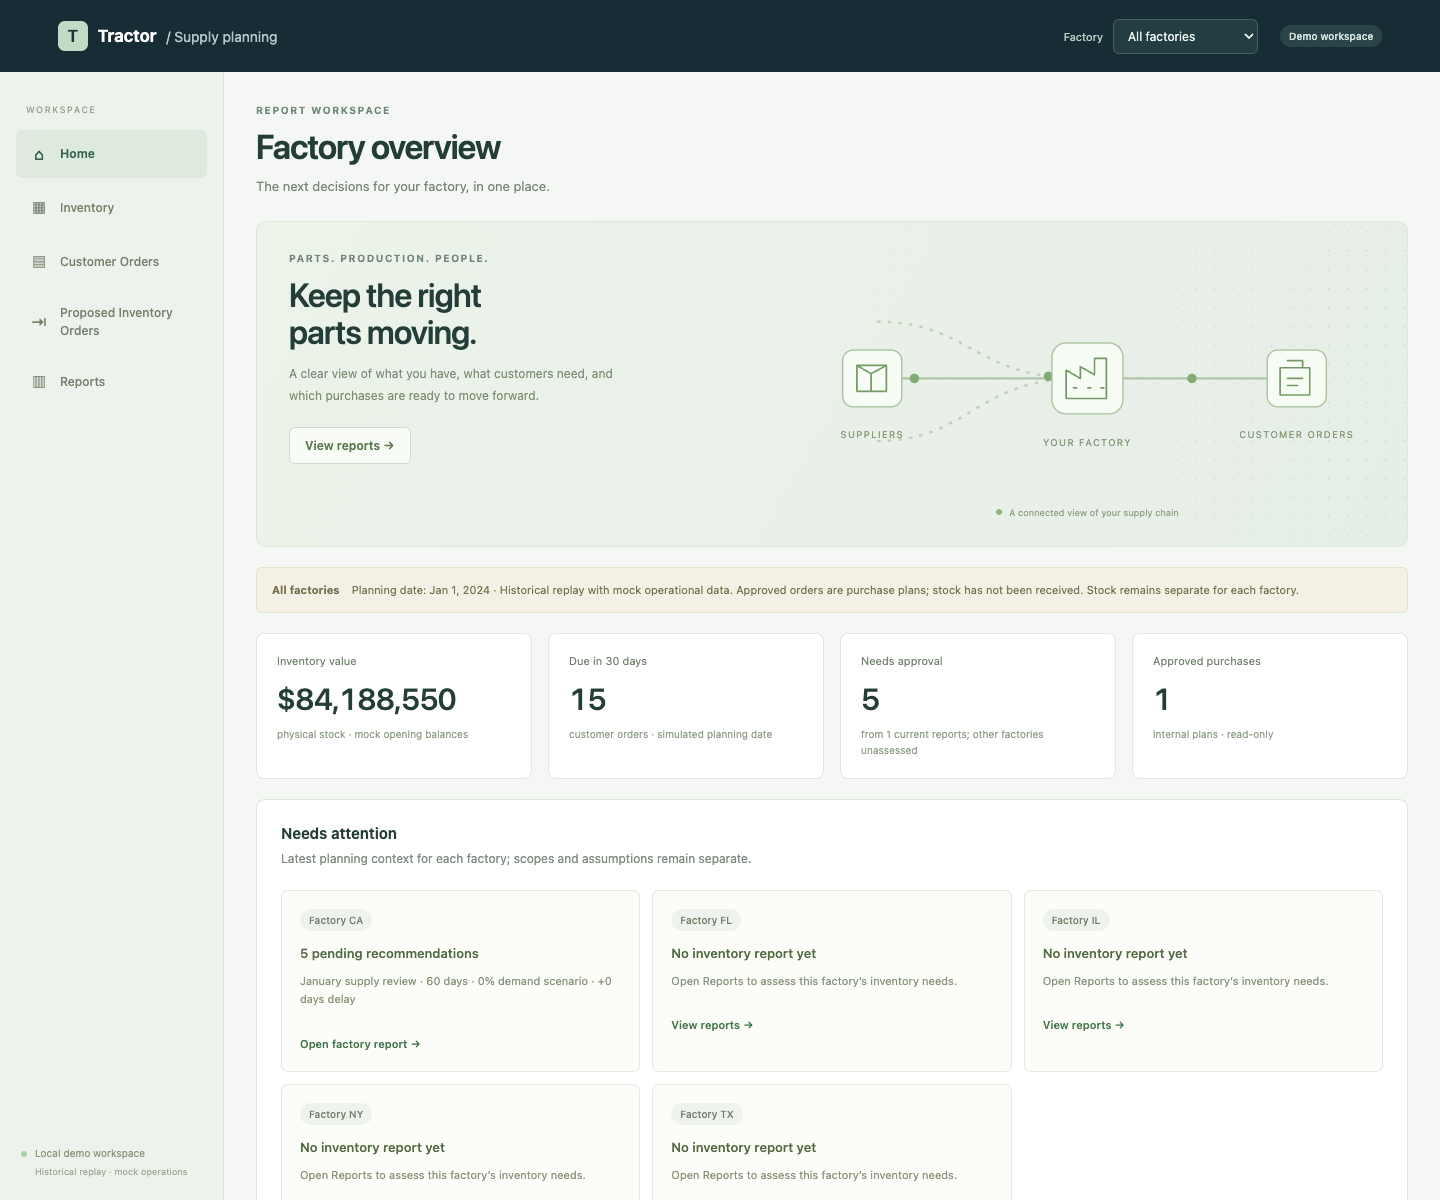
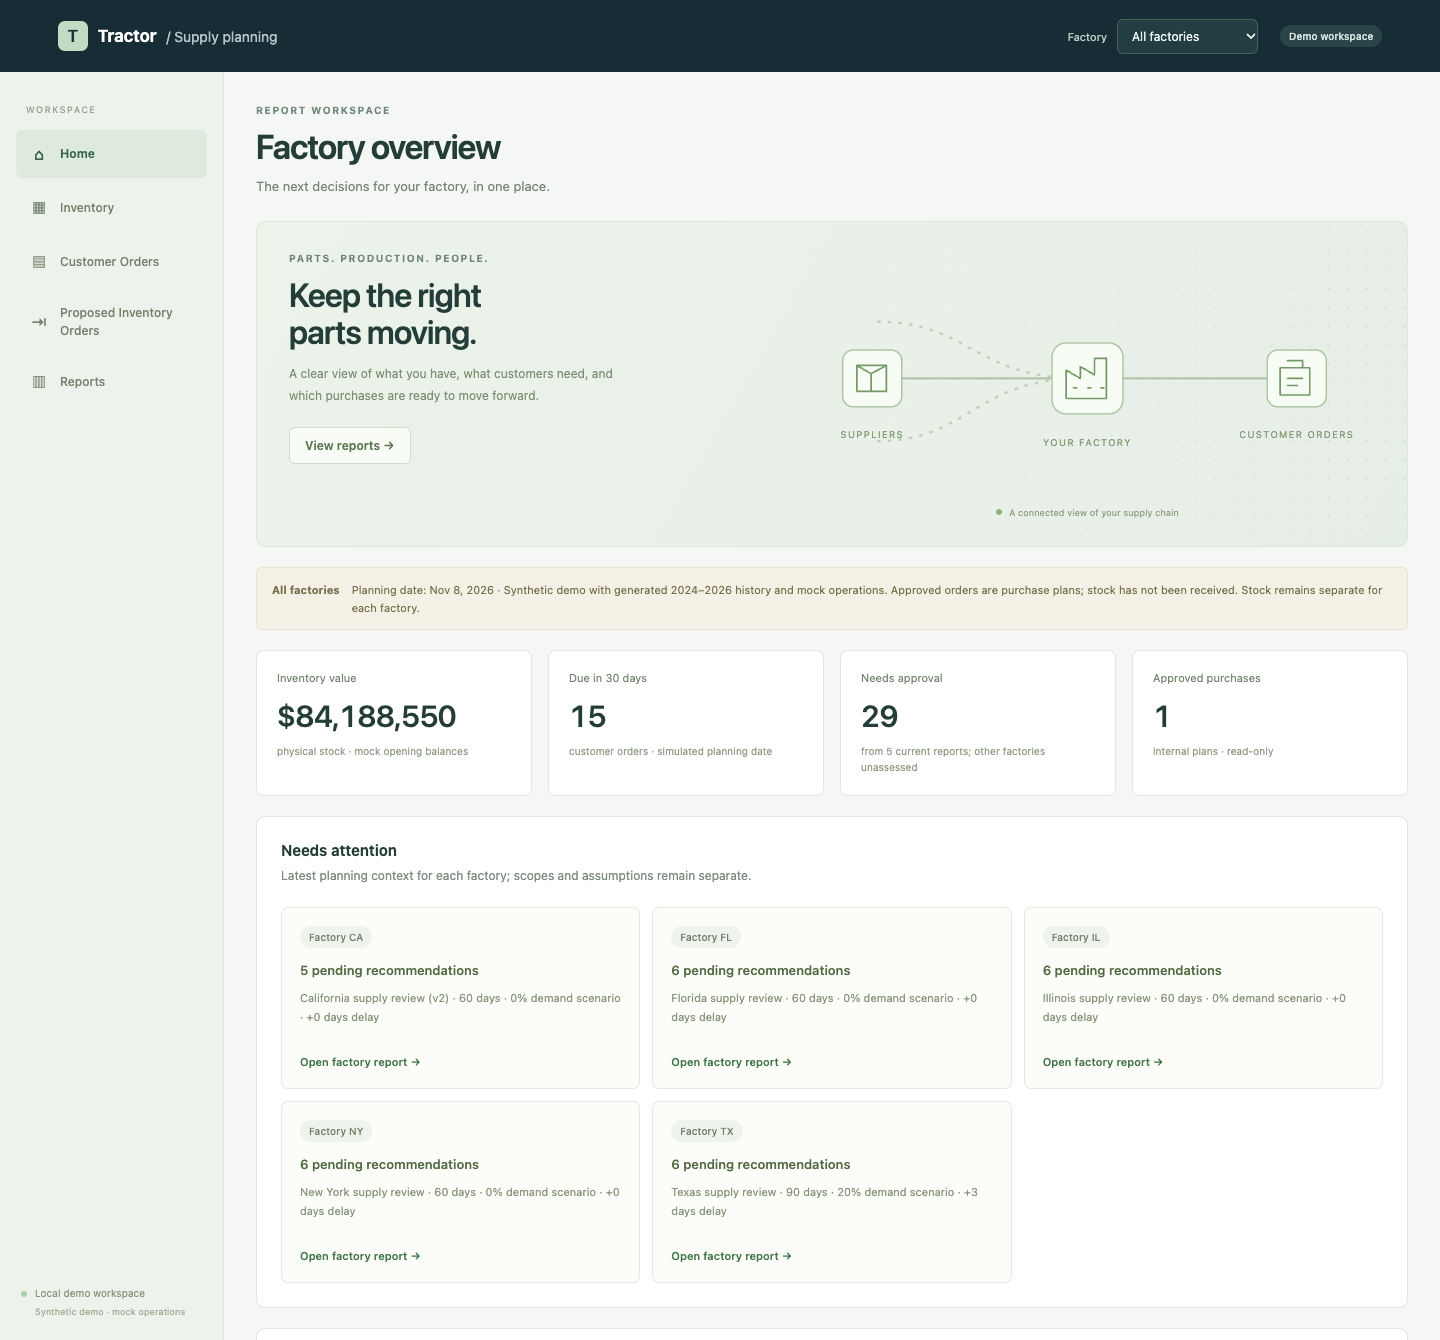
Refresh architecture docs and current app screenshots

diff --git a/docs/implementation.md b/docs/implementation.md
@@ -2,11 +2,67 @@
 
 For startup and a tour of the app, see the [README](../README.md).
 
+## Services and data flow
+
+The service has a React/TypeScript frontend, a FastAPI backend, and a PostgreSQL database. The Docker build compiles the frontend; FastAPI serves that bundle and `/api` routes together on port 8000. In development, Vite proxies `/api` requests to that backend.
+
+| Compose service | Responsibility | Access and persistence |
+| --- | --- | --- |
+| `app` | FastAPI API, calculations, saved-report actions, and built React UI | Host `127.0.0.1:8000` by default; `APP_PORT` changes the host port |
+| `db` | PostgreSQL 17.6 source data and operational state | Internal port 5432; `postgres_data` volume |
+| `llm` | Ollama 0.40.15 serving the optional `qwen3:1.7b` model | Internal port 11434; `ollama_models` volume; model downloaded separately |
+
+```mermaid
+flowchart LR
+    Browser[React UI] --> API[FastAPI]
+    Source[CSV history and planning fixtures] --> API
+    API --> DB[PostgreSQL]
+    API -- Generate summary --> LLM[Local Ollama model]
+```
+
+The app can start and calculate reports while the model is unavailable. Summary generation is an explicit action on a saved report. The model receives bounded facts from that snapshot; calculations and approval transactions remain backend operations.
+
+## Database storage
+
+Startup imports source observations by checksum and applies additive schema changes. Operational state is partitioned by factory. Existing reports, orders, and stock are preserved across restarts and imports.
+
+| Table | Primary key | Stored data |
+| --- | --- | --- |
+| `dataset_imports` | `checksum` | Import filename, observation count, and import timestamp |
+| `observations` | `(dataset_checksum, source_row)` | Validated source observations, including the synthetic extension |
+| `factory_state` | `site` | Revision counter used for approval locking and stale-report checks |
+| `factory_inventory` | `(site, component_id)` | Physical on-hand and reserved component balances |
+| `report_runs` | `id` | Name, factory, configuration, calculation snapshot, source checksum, inventory revision, deletion timestamp, and demo lock |
+| `planning_purchase_orders` | `id` | Approved internal purchase plans linked to their originating report; unique per report/component |
+| `recommendation_decisions` | `(report_id, component_id)` | Approved/denied decisions, decision timestamp, and optional purchase-order ID |
+| `report_summaries` | `report_id` | One saved explanation per snapshot, with model, prompt version, input checksum, content, and timestamp |
+| `planning_state` | `id` | Legacy CA-only revision table, retained for migration compatibility |
+| `planning_inventory` | `component_id` | Legacy CA-only balances, retained for migration compatibility |
+
+The current app reads and updates the factory-specific tables for operational planning. Component definitions, BOMs, supplier settings, and mock customer orders come from `planning.json`, rather than separate database tables. Historical CSV inventory levels are source observations and do not become physical component stock.
+
+`report_runs.config` and `report_runs.result` are JSONB. Version metadata is stored in `result`, for example:
+
+```json
+{
+  "version": 3,
+  "version_root_id": "original-report-id",
+  "version_base_name": "California supply review",
+  "recalculated_from": "previous-snapshot-id"
+}
+```
+
+Version links are application-managed JSON references. `is_stale` and summary `is_outdated` are computed when reports are loaded, not stored boolean columns. See [Saved reports and decisions](#saved-reports-and-decisions) for lifecycle behavior.
+
 ## Calculations and assumptions
 
 ### Source data
 
 The supplied synthetic CSV has 10,000 observations from 2020–2023 and is preserved unchanged. The separate `data/supply_chain_mock_2024_2026.csv` adds 6,977 mock observations from January 1, 2024 through November 7, 2026. Warehouse codes are treated as factory IDs. Reports use only the selected factory's observations before the fixed demo planning date of November 8, 2026. The date does not move on reload.
+
+Row meaning is undocumented. The app assumes demand rows are additive. Historical inventory values are retained as source observations, not summed into current component stock.
+
+Missing weeks are unknown, not zero. Zero would be appropriate only if the source were a complete transaction log where no row means no demand. Partial boundary weeks are excluded. Missing values should be repaired or excluded once source semantics are known, rather than interpolated without evidence.
 
 ### Generating the extension
 
@@ -24,10 +80,6 @@ Only dates are replaced, preserving the sampled combinations of factory, model, 
 
 Startup validates and imports the original and extension together under one checksum, retaining separate files and original source values. A new checksum imports new history without deleting saved reports, stock, decisions, or approved orders. `MOCK_DATA_PATH` selects the extension; an empty value disables it. After changing generated files, rebuild the app with `docker compose up --build -d`. Changing the planning date also requires updating `planning.json` and its fixture version; saved reports and approved-order dates remain frozen.
 
-Row meaning is undocumented. The app assumes demand rows are additive. Historical inventory values are retained as source observations, not summed into current component stock.
-
-Missing weeks are unknown, not zero. Zero would be appropriate only if the source were a complete transaction log where no row means no demand. Partial boundary weeks are excluded. Missing values should be repaired or excluded once source semantics are known, rather than interpolated without evidence.
-
 ### Forecasts and risks
 
 Demand uses the mean of the last eight complete observed weeks. The report scales this baseline to the selected horizon and demand scenario. Confirmed customer orders replace the daily forecast when larger, rather than being added to it.
@@ -44,11 +96,13 @@ There is no trained forecasting ML model. Optional report explanations use a pre
 
 ### Local report explanations
 
-Ollama runs as the `llm` Compose service with a persistent `ollama_models` volume. It has no host port. The app calls its native `/api/chat` endpoint over the Compose network. Defaults are `LLM_BASE_URL=http://llm:11434`, `LLM_MODEL=qwen3:1.7b`, and `LLM_TIMEOUT_SECONDS=120`. Model downloads require network access; inference uses the local model and sends no report data to a hosted model API. Download the model with `docker compose exec llm ollama pull qwen3:1.7b`. Other models can be selected through `.env` and downloaded separately. An empty `LLM_BASE_URL` disables generation.
+Ollama runs as the `llm` Compose service with a persistent `ollama_models` volume. It has no host port. The app calls its native `/api/chat` endpoint over the Compose network. Defaults are `LLM_BASE_URL=http://llm:11434`, `LLM_MODEL=qwen3:1.7b`, and `LLM_TIMEOUT_SECONDS=120` per inference attempt. Model downloads require network access; the default inference path uses the local model and sends no report data to a hosted model API. Download the model with `docker compose exec llm ollama pull qwen3:1.7b`. Other models can be selected through `.env` and downloaded separately. An empty `LLM_BASE_URL` disables generation.
 
-Docker Model Runner was evaluated first. The installed v0.1.11 runner rejected the current 1.7B package format and timed out loading the compatible older 0.6B package. The app therefore uses the separate Ollama service. This runs on CPU under Docker Desktop on macOS; first inference includes model loading. A future native runtime could improve speed.
+Ollama uses CPU inference under Docker Desktop on macOS. Model loading and the number of selected analyses affect latency; cached summaries load without inference. A native GPU-capable runtime could improve speed, but the current Compose setup uses the local Ollama container.
 
-`summaries.py` prepares a bounded set of factual sentences from the saved report and its current decision statuses, covering only selected analyses. Chart facts explain the mean baseline and the uncalibrated range; no trend is inferred from partial chart weeks. User-supplied report names and customer names are excluded from model input. The JSON schema requires one highlight per selected analysis, each citing one or two facts allowed for that analysis. Inventory highlights must cite purchase proposals when present. Temperature is zero, thinking is disabled, and output is bounded in length. The backend checks response shape, selected-analysis coverage, references, repeated bullets, numeric values against their cited facts, and some unsupported approval/receipt language. These checks do not prove semantic correctness, correct units, or the quality of every interpretation; supporting source sentences remain visible for review. Invalid output returns an error, not a fabricated AI summary.
+`summaries.py` prepares factual sentences from the saved report and current decision statuses. Only facts allowed for the selected analyses are sent to the model: the demand total and baseline, up to three purchase proposals ranked by purchase cost, the two largest expected supplier delays, and the largest supplier failure-rate proxy. The demand chart remains a view of the backend's saved forecast values and historical spread. User-supplied report names and customer names are excluded from model input.
+
+The JSON schema requires one highlight per selected analysis, each citing one or two facts allowed for that analysis. Inventory highlights must cite purchase proposals when present and retain their decision status. Temperature is zero, thinking is disabled, and output is bounded in length. The backend checks response shape, selected-analysis coverage, references, repeated bullets, numeric values against their cited facts, and some unsupported approval/receipt language. These checks do not prove semantic correctness, correct units, or the quality of every interpretation; supporting source sentences remain visible for review. Invalid output returns an error, not a fabricated AI summary.
 
 One summary is stored per report snapshot in `report_summaries`:
 
@@ -65,7 +119,7 @@ CREATE TABLE report_summaries (
 
 The model receives facts grouped by their allowed analysis section, which prevents unrelated inventory metrics from distracting it from purchase proposals. Invalid output gets at most one additional attempt with an instruction to copy a cited fact sentence exactly; both attempts are validated. Connection failures are not retried automatically.
 
-Content includes highlights, cited source facts, total elapsed time, attempt count, token counts for the successful attempt, and model digest when available. A current cached summary is reused unless regeneration is requested. Changed decisions, report context, prompt version, or configured model mark it outdated. Regeneration replaces that snapshot's summary. A new report version starts without a summary. Generating a summary does not change forecasts, stock, decisions, or approved orders.
+Content includes highlights, cited source facts, total elapsed time, attempt count, token counts for the successful attempt, and model digest when available. A current cached summary is reused unless regeneration is requested. Changed decisions, report context, prompt version, or configured model name mark it outdated. Updating weights under the same model tag requires explicit regeneration; the recorded digest is provenance, not a cache invalidation check. Regeneration replaces that snapshot's summary. A new report version starts without a summary. Generating a summary does not change forecasts, stock, decisions, or approved orders.
 
 Inference holds no database transaction or factory lock. The app permits one active generation per process and checks the report input checksum again under the factory lock before saving. Concurrent changes return a conflict. Deleted reports cannot generate or retrieve summaries. Missing models, connection errors, timeouts, and invalid outputs leave any saved summary intact.
 
@@ -105,6 +159,8 @@ Approval creates an internal planned purchase order and increments that factory'
 Approvals from another report, a changed source checksum, or a changed planning fixture version make a saved report stale. Further approvals then require recalculation. Existing decisions and approved orders remain unchanged. Old approved orders retain their dates and are included in report receipts only if they fall inside the new planning horizon; they are not automatically received or moved forward. Home labels stale planning results and excludes them from its pending-needs total. Proposed Inventory Orders is read-only.
 
 Report deletion sets a deletion timestamp. Deleted reports are excluded from the library, report retrieval, decisions, and Home's latest-report selection. Stored calculation snapshots and decisions remain available to approved purchase orders; deleting a report does not cancel supply or change stock. Deletion uses the same factory transaction lock as approval. Repeated deletion succeeds without further changes.
+
+Deletion does not reset the sequence: if v2 is deleted, the next saved run is v3. Gaps in the visible report list are expected.
 
 On the first schema upgrade, the five oldest existing reports are marked as locked demo reports. These flags persist across restarts; new reports are deletable. A fresh database with no saved reports has no locked demo reports.
 
@@ -147,7 +203,7 @@ Calculation tests use Python's standard library. API tests require a fresh datab
 
 ```sh
 docker compose exec -T db createdb -U tractor tractor_test
-docker compose run -d --name tractor-test-app \
+docker compose run --rm -d --name tractor-test-app \
   -p 127.0.0.1:8001:8000 -e PGDATABASE=tractor_test app
 ```
 
@@ -161,10 +217,24 @@ REPORT_TEST_URL=http://localhost:8001 PYTHONPATH=backend \
 Remove the test instance and its database afterward:
 
 ```sh
-docker rm -f tractor-test-app
+docker stop tractor-test-app
 docker compose exec -T db dropdb -U tractor tractor_test
 ```
 
 Tests cover calculations, future-data isolation, stock accounting, factory isolation, validation, duplicate approvals, stale reports, and all-factory totals. Browser checks have also covered navigation, independent factory selectors, saved results, exports, reduced motion, top alignment, and mobile layouts.
 
 Summary unit tests cover input scoping, source references, numeric checks, malformed output, model failures, and cache invalidation. Set `REPORT_TEST_LLM=1` alongside `REPORT_TEST_URL` to run the real local-model persistence, caching, decision-change, and report-version checks against an isolated database. This needs the Ollama service and downloaded model; these tests never use the normal app database.
+
+## Documentation screenshots
+
+Screenshots use the current app with a separate temporary database: one report for each factory, a California report with an approved internal order and a second version, and a locally generated explanation. The planning date is November 8, 2026. This keeps documentation examples separate from the user's saved workspace.
+
+| Screenshot | View |
+| --- | --- |
+| [Home](home-dashboard.png) | All-factory overview and separate planning needs |
+| [Report library](reports-library.png) | Saved factory reports and versioned snapshots |
+| [Report configuration](report-configuration.png) | Selected analyses, fixed report factory, and Run next version |
+| [Saved report](report-dashboard.png) | Report context, metrics, and local explanation |
+| [Demand forecast](report-forecast.png) | Historical weekly observations, baseline forecast, and empirical range |
+| [Local explanation](report-summary.png) | Generated highlights with their supporting source facts |
+| [Purchase recommendations](report-recommendations.png) | Supplier, shipping, quantity, modeled costs, and approve/deny actions |

diff --git a/README.md b/README.md
@@ -1,6 +1,6 @@
 # Tractor Supply Planning
 
-A local app for reviewing tractor demand, checking parts inventory, and approving purchase recommendations across five factories.
+A local planning service with a **React/TypeScript frontend, FastAPI backend, and PostgreSQL database** for reviewing tractor demand, checking parts inventory, and approving purchase recommendations across five factories.
 
 The app uses historical forecasting baselines and an optional local LLM to explain saved reports. Inventory, bills of materials, costs, and customer orders are mock data.
 
@@ -22,7 +22,7 @@ For local report explanations, download the small model once:
 docker compose exec llm ollama pull qwen3:1.7b
 ```
 
-Open a saved report and click **Generate summary**. Summaries include supporting report figures and persist with that report version. Forecasts and purchase quantities still come from the app's calculations. The model runs locally in Ollama; Docker inference on this Mac uses the CPU. The app works without a downloaded model.
+Open a saved report and click **Generate summary** in **Report explanation**. The local Qwen3 model writes one highlight per selected analysis with supporting report figures. Summaries are saved with that report version; use **Regenerate summary** after decisions change. Review the explanation alongside its sources. The app works without a downloaded model.
 
 ## Using the app
 
@@ -48,11 +48,13 @@ Reports save automatically. Approvals appear under **Proposed Inventory Orders**
 
 When a saved report is open, **Run next version** saves your edited settings as a new snapshot named `Texas demand review (v2)`, then `(v3)`. **Recalculate** also advances that sequence using the saved settings. Start a separate report or choose another factory through **New report** in the report library. Earlier reports and their decisions remain available.
 
-Use **Delete** in the report list or report view to remove a report. The five oldest reports present when this feature is first started are locked for the demo. Deleting a report keeps any approved purchase orders. Browser Back and Forward restore pages, report views, and the global factory selection.
+Use **Delete** in the report list or report view to remove a report from the library. Approved purchase orders and stored history are retained. Version numbers are never reused: deleting v2 means the next run is v3. Existing demo reports may be locked; a fresh database starts with no locked reports. Browser Back and Forward restore pages, report views, and the global factory selection.
 
-![Home](docs/home-dashboard.png)
+![All-factory Home dashboard with separate factory planning needs](docs/home-dashboard.png)
 
-[Report list](docs/reports-library.png) · [Report configuration and results](docs/report-dashboard.png)
+[Report library](docs/reports-library.png) · [Report configuration](docs/report-configuration.png) · [Saved report](docs/report-dashboard.png) · [Demand forecast](docs/report-forecast.png) · [Local AI explanation and sources](docs/report-summary.png) · [Purchase recommendations](docs/report-recommendations.png)
+
+Screenshots show the current app with synthetic data in a separate demo workspace.
 
 ## Data and calculations
 
@@ -69,15 +71,18 @@ Mock factory data is in [planning.json](backend/app/fixtures/planning.json). Eac
 
 ## Code layout
 
-React and TypeScript provide the UI. FastAPI serves the API and built frontend. PostgreSQL stores source observations, inventory, reports, and decisions. Docker Compose runs the app and database.
+Docker Compose runs the app, database, and Ollama service. FastAPI serves the API and built React frontend on the same port. Architecture, database tables, API routes, and calculation assumptions are documented in [implementation notes](docs/implementation.md).
 
 | File | Responsibility |
 | --- | --- |
 | [main.py](backend/app/main.py) | Startup, CSV import, and source-data endpoints |
 | [reports.py](backend/app/reports.py) | Factory data, saved reports, and approval transactions |
 | [planning.py](backend/app/planning.py) | Forecasts, component requirements, and purchase comparisons |
+| [summaries.py](backend/app/summaries.py) | Local-model requests, source facts, and output checks |
 | [main.tsx](frontend/src/main.tsx) | Navigation, factory selection, and report UI |
 | [WorkspacePages.tsx](frontend/src/WorkspacePages.tsx) | Home, inventory, and order pages |
+| [ReportSummary.tsx](frontend/src/ReportSummary.tsx) | Generate, display, and review saved explanations |
+| [generate_mock_history.py](scripts/generate_mock_history.py) | Reproducible extension of the original dataset |
 
 ## Development
 
